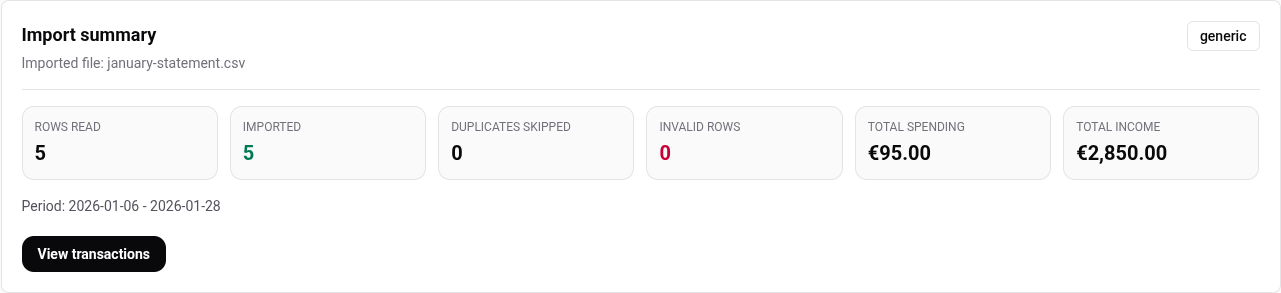
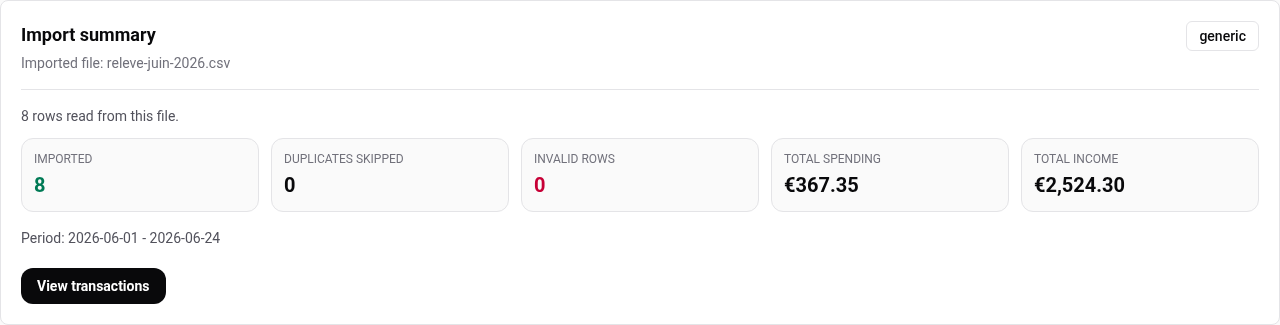
docs(import): the summary screenshot gets a capture step, and the referential stops disagreeing with itself (#397)
Two unrelated repairs found by auditing the tracker, both small and both about a
document claiming something that is not so.

## The summary screenshot had no capture path at all (#387)

`docs/screenshots/imports/summary-desktop.png` was the only image in the tree
produced by no script: 57 entries in `doc-screenshots.mjs` and none for this one.
It arrived by hand in 2755ca0 and went stale when #386 took the rows read out of
the grid, so the manual showed six tiles for a screen that draws five, and
nothing could notice. The issue said to re-run the harness; there was nothing to
re-run.

So this adds the step rather than the image. New `import-summary` group, its own
because its arrangement is a third one: a file the generic profile reads, on an
account with no history to collide with. `imports` needs a two-import history and
`import-columns` needs a file no profile knows; neither can produce this panel.

The fixture is `scripts/synthetic/make-synthetic.mjs`'s ledger, inlined so a
capture cannot depend on somebody having run the generator first. Holder Paul
Mercier, who does not exist; every merchant and every amount invented; eight
movements over June 2026. Nothing in the image comes from anyone's bank, and the
panel names no merchant anyway.

## The `assert` hook, which is the half that matters

A capture that cannot fail always succeeds at producing something, and
"something" is what shipped here for two days. `capture()` now takes an optional
[…]

diff --git a/docs/reference/design-referential.md b/docs/reference/design-referential.md
@@ -17,6 +17,12 @@ behaviour; the plate is the authority for intent. When they disagree, the disagr
 and gets recorded in the row rather than silently resolved. Additions go in the second table with
 the wave that made them.
 
+**Building a thing and registering it are two acts, and a row in the additions table is only
+ever the first.** Wave 5 shipped the busy button's occupancy contract and wrote it down here;
+the referential still has no clause for it, and #389 tracks that half. So an entry can appear
+in the additions table and in the gap table at once without either being wrong, and the two
+rows must say which act they are talking about. They disagreed on exactly this for one commit.
+
 **THIS PAGE IS A TABLE, NOT A GATE, and saying so is part of it.** Nothing here fails a build.
 Someone adding an interactive component next month gets no warning that it has no pressed state,
 and that is a real property of this page rather than an oversight: a registration with no gate has
@@ -74,28 +80,28 @@ It is `src/lib/components/Button.svelte`. Its bordered secondary variant is a ga
 
 ## Additions made by waves in this repository
 
-| Added              | Entry                                                                                                                                                                                                                                                                                                   | Where it is written down                                                                                                                                                    |
-| ------------------ | ------------------------------------------------------------------------------------------------------------------------------------------------------------------------------------------------------------------------------------------------------------------------------------------------------- | --------------------------------------------------------------------------------------------------------------------------------------------------------------------------- |
-| Wave 5, Planche 5a | **The pressed state**, for eight tones, with its timing rule (no transition in, 120 ms ease-out out, 120 ms minimum display) and its three clauses (never survives pointerup, pointercancel skips the floor, no `aria-*` carries it)                                                                    | Rule and clauses: `src/lib/press.ts`. Tints and class tokens: the "Planche 5a" block in `src/lib/styles.ts`. Clauses asserted separately in `src/lib/press.svelte.spec.ts`. |
-| Wave 5, Planche 5g | **rose-800 `#9f1239`**, the plate's only new tint. White on it 7.6:1, it on white 6.8:1. Used by the filled-rose press and the TapLink danger press.                                                                                                                                                    | `pressFilledRose` and `pressUnderlineDanger` in `src/lib/styles.ts`                                                                                                         |
-| Wave 5, Planche 5g | **`press-inset`**, `inset 0 2px 6px rgba(0,0,0,.35)`. A fill presses by sinking rather than by scaling, so it survives `prefers-reduced-motion`.                                                                                                                                                        | `pressFilled` in `src/lib/styles.ts`                                                                                                                                        |
-| Wave 5, Planche 5d | **Brick 6c, SwitchRow**: a 48 px row that IS the switch, label plus value in words, consequence linked by `aria-describedby`, `lockedReason` that renders inert and states its reason. Closes the "two-option segmented control" gap the Colonnes plate flagged and refused to invent.                  | `src/lib/components/ui/SwitchRow.svelte`                                                                                                                                    |
-| Wave 5, Planche 5f | **The occupancy contract** for a waiting button, registered as a clause of brick 9 rather than as a component: the control keeps its focus and its name, `aria-busy` replaces the native `disabled`, the width freezes at the resting measurement, and the visible label becomes the action's own verb. | `busyLabel` in `src/lib/components/Button.svelte`, asserted in `src/lib/components/busy-and-failure.svelte.spec.ts`                                                         |
-| Wave 5, Planche 5f | **A modal owns its action until the answer**: Escape, the backdrop and the close control stop closing it while a request is out, and it closes on the answer rather than on the press.                                                                                                                  | `busy` in `src/lib/components/Modal.svelte`, `phase` in `ConfirmDialog.svelte`                                                                                              |
-| Wave 5, Planche 5f | **The 300 ms threshold is a filter with a floor**: a load that beats it shows nothing, and once shown a skeleton holds 300 ms so an answer at 320 ms cannot flicker for 20.                                                                                                                             | `src/lib/delayedFlag.svelte.ts`                                                                                                                                             |
-| Wave 5, brick 8    | **`focusOnShow`**, off everywhere but inside a dialog: a failure appearing where the focus is not needs the focus moved onto it, which `role="alert"` alone does not do.                                                                                                                                | `src/lib/components/AlertBanner.svelte`                                                                                                                                     |
+| Added              | Entry                                                                                                                                                                                                                                                                                                                                                                                                               | Where it is written down                                                                                                                                                    |
+| ------------------ | ------------------------------------------------------------------------------------------------------------------------------------------------------------------------------------------------------------------------------------------------------------------------------------------------------------------------------------------------------------------------------------------------------------------- | --------------------------------------------------------------------------------------------------------------------------------------------------------------------------- |
+| Wave 5, Planche 5a | **The pressed state**, for eight tones, with its timing rule (no transition in, 120 ms ease-out out, 120 ms minimum display) and its three clauses (never survives pointerup, pointercancel skips the floor, no `aria-*` carries it)                                                                                                                                                                                | Rule and clauses: `src/lib/press.ts`. Tints and class tokens: the "Planche 5a" block in `src/lib/styles.ts`. Clauses asserted separately in `src/lib/press.svelte.spec.ts`. |
+| Wave 5, Planche 5g | **rose-800 `#9f1239`**, the plate's only new tint. White on it 7.6:1, it on white 6.8:1. Used by the filled-rose press and the TapLink danger press.                                                                                                                                                                                                                                                                | `pressFilledRose` and `pressUnderlineDanger` in `src/lib/styles.ts`                                                                                                         |
+| Wave 5, Planche 5g | **`press-inset`**, `inset 0 2px 6px rgba(0,0,0,.35)`. A fill presses by sinking rather than by scaling, so it survives `prefers-reduced-motion`.                                                                                                                                                                                                                                                                    | `pressFilled` in `src/lib/styles.ts`                                                                                                                                        |
+| Wave 5, Planche 5d | **Brick 6c, SwitchRow**: a 48 px row that IS the switch, label plus value in words, consequence linked by `aria-describedby`, `lockedReason` that renders inert and states its reason. Closes the "two-option segmented control" gap the Colonnes plate flagged and refused to invent.                                                                                                                              | `src/lib/components/ui/SwitchRow.svelte`                                                                                                                                    |
+| Wave 5, Planche 5f | **The occupancy contract** for a waiting button, which belongs to brick 9 as a clause rather than as a component of its own: the control keeps its focus and its name, `aria-busy` replaces the native `disabled`, the width freezes at the resting measurement, and the visible label becomes the action's own verb. **BUILT and recorded here; the clause in the referential itself is still owed, and is #389.** | `busyLabel` in `src/lib/components/Button.svelte`, asserted in `src/lib/components/busy-and-failure.svelte.spec.ts`                                                         |
+| Wave 5, Planche 5f | **A modal owns its action until the answer**: Escape, the backdrop and the close control stop closing it while a request is out, and it closes on the answer rather than on the press.                                                                                                                                                                                                                              | `busy` in `src/lib/components/Modal.svelte`, `phase` in `ConfirmDialog.svelte`                                                                                              |
+| Wave 5, Planche 5f | **The 300 ms threshold is a filter with a floor**: a load that beats it shows nothing, and once shown a skeleton holds 300 ms so an answer at 320 ms cannot flicker for 20.                                                                                                                                                                                                                                         | `src/lib/delayedFlag.svelte.ts`                                                                                                                                             |
+| Wave 5, brick 8    | **`focusOnShow`**, off everywhere but inside a dialog: a failure appearing where the focus is not needs the focus moved onto it, which `role="alert"` alone does not do.                                                                                                                                                                                                                                            | `src/lib/components/AlertBanner.svelte`                                                                                                                                     |
 
 ## Gaps named by a plate and not filled
 
 Named rather than closed in silence. Each is filed, and the issue is where the argument continues.
 
-| Gap                | What the referential does not say                                                                                                  | State                                                                                                                                                                                                     |
-| ------------------ | ---------------------------------------------------------------------------------------------------------------------------------- | --------------------------------------------------------------------------------------------------------------------------------------------------------------------------------------------------------- |
-| Bordered button    | The button atom is "existing, out of scope", so its secondary bordered variant is specified nowhere, and Planche 5b's R1 needs one | Filed as #388. Nothing is drawn outside that plate while it is open.                                                                                                                                      |
-| Busy button        | Brick 9 defines the button spinner but not the occupancy contract: no `aria-busy`, no width freeze, no ban on native `disabled`    | Filed as #389, and BUILT in wave 5 as `Button`'s opt-in `busyLabel`. To register as a clause of brick 9, not as a component.                                                                              |
-| TapLink affordance | The clause is contextual, and the same section removes the context. An internal contradiction, not an implementation error         | Filed as #390. R1 shipped, R3 (make the clause positional) to repair.                                                                                                                                     |
-| Skeleton placement | Brick 9 says "past 300 ms" without saying which screen can show one, which is how one came to be built where it is impossible      | Filed as #391, and the drafted state is REMOVED: wave 5 moved the skeleton to `/imports` on arrival. To register: a skeleton exists only where the structure is known before the content.                 |
-| Pressed-state gate | Nothing fails when a new interactive component ships without a pressed state, so this page is a table and not a floor              | Filed as #392, and costed rather than estimated: 18 interactive components under `ui/`, 4 with a press, so a check would be 14 exceptions of 18 on day one. Cheap once a plate rules the remaining tones. |
+| Gap                | What the referential does not say                                                                                                  | State                                                                                                                                                                                                                                                                            |
+| ------------------ | ---------------------------------------------------------------------------------------------------------------------------------- | -------------------------------------------------------------------------------------------------------------------------------------------------------------------------------------------------------------------------------------------------------------------------------- |
+| Bordered button    | The button atom is "existing, out of scope", so its secondary bordered variant is specified nowhere, and Planche 5b's R1 needs one | Filed as #388. Nothing is drawn outside that plate while it is open.                                                                                                                                                                                                             |
+| Busy button        | Brick 9 defines the button spinner but not the occupancy contract: no `aria-busy`, no width freeze, no ban on native `disabled`    | Filed as #389. The BEHAVIOUR shipped in wave 5 as `Button`'s opt-in `busyLabel` and has its row in the additions table above; what is still owed is the CLAUSE in brick 9, on the referential side. Those are two different acts and this row is the one that tracks the second. |
+| TapLink affordance | The clause is contextual, and the same section removes the context. An internal contradiction, not an implementation error         | Filed as #390. R1 shipped, R3 (make the clause positional) to repair.                                                                                                                                                                                                            |
+| Skeleton placement | Brick 9 says "past 300 ms" without saying which screen can show one, which is how one came to be built where it is impossible      | Filed as #391, and the drafted state is REMOVED: wave 5 moved the skeleton to `/imports` on arrival. To register: a skeleton exists only where the structure is known before the content.                                                                                        |
+| Pressed-state gate | Nothing fails when a new interactive component ships without a pressed state, so this page is a table and not a floor              | Filed as #392, and costed rather than estimated: 18 interactive components under `ui/`, 4 with a press, so a check would be 14 exceptions of 18 on day one. Cheap once a plate rules the remaining tones.                                                                        |
 
 ## Plate figures that do not reconcile, recorded rather than rounded
 

diff --git a/docs/screenshots/imports/README.md b/docs/screenshots/imports/README.md
@@ -33,6 +33,36 @@ Unlike the other groups, this arrangement is **not** created by
 form actions rather than files. Import the file above by hand, twice, before
 capturing.
 
+## The summary shot needs a clean account
+
+`summary-desktop.png` is the `import-summary` group, and it is a THIRD arrangement:
+an account that has not imported this file before.
+
+```bash
+BASE_URL=http://localhost:4175 node scripts/doc-screenshots.mjs import-summary
+```
+
+The harness uploads the statement itself, so there is nothing to arrange by
+hand — but a **second run against the same account photographs the wrong
+thing**, because duplicate detection is per transaction and the panel then
+reads 0 imported and 8 duplicates. That is a true summary of a different
+event. Capture it on a fresh instance, or delete the run from `/imports`
+first.
+
+The file is `scripts/synthetic/make-synthetic.mjs`'s ledger, inlined so a
+capture does not depend on somebody having run the generator: holder Paul
+Mercier, who does not exist, invented merchants and invented amounts. Eight
+movements over June 2026, six debits totalling 367,35 and two credits
+totalling 2 524,30.
+
+**This shot asserts what it depicts before writing the file** — five tiles,
+the rows read as a sentence above them, and the two totals. It is the only
+image here that had no capture step at all: it was taken by hand, went stale
+when #386 changed the layout, and nothing could notice (#387). The assertion
+is what stops that happening twice, and it earned its place on its first run
+by counting ten tiles rather than five, because `/import` renders both
+chromes into the DOM.
+
 ## The designation shots need their own arrangement
 
 `columns-offer-desktop`, `columns-designation-mobile`, `columns-picker-mobile` and

diff --git a/docs/using/imports.md b/docs/using/imports.md
@@ -158,7 +158,7 @@ columns: see [Importing the same file twice](#importing-the-same-file-twice).
 
 The import reports what it did before you go anywhere.
 
-![An import summary: file name, generic profile, 5 rows read, 5 imported, 0 duplicates skipped, 0 invalid rows, total spending €95.00, total income €2,850.00, and the period covered](../screenshots/imports/summary-desktop.png)
+![An import summary: the file releve-juin-2026.csv, read by the generic profile. A line above the figures reads "8 rows read from this file", then five tiles: 8 imported, 0 duplicates skipped, 0 invalid rows, €367.35 total spending, €2,524.30 total income. Below them, the period 2026-06-01 to 2026-06-24](../screenshots/imports/summary-desktop.png)
 
 It opens with how many rows it read, then shows what became of them.
 
